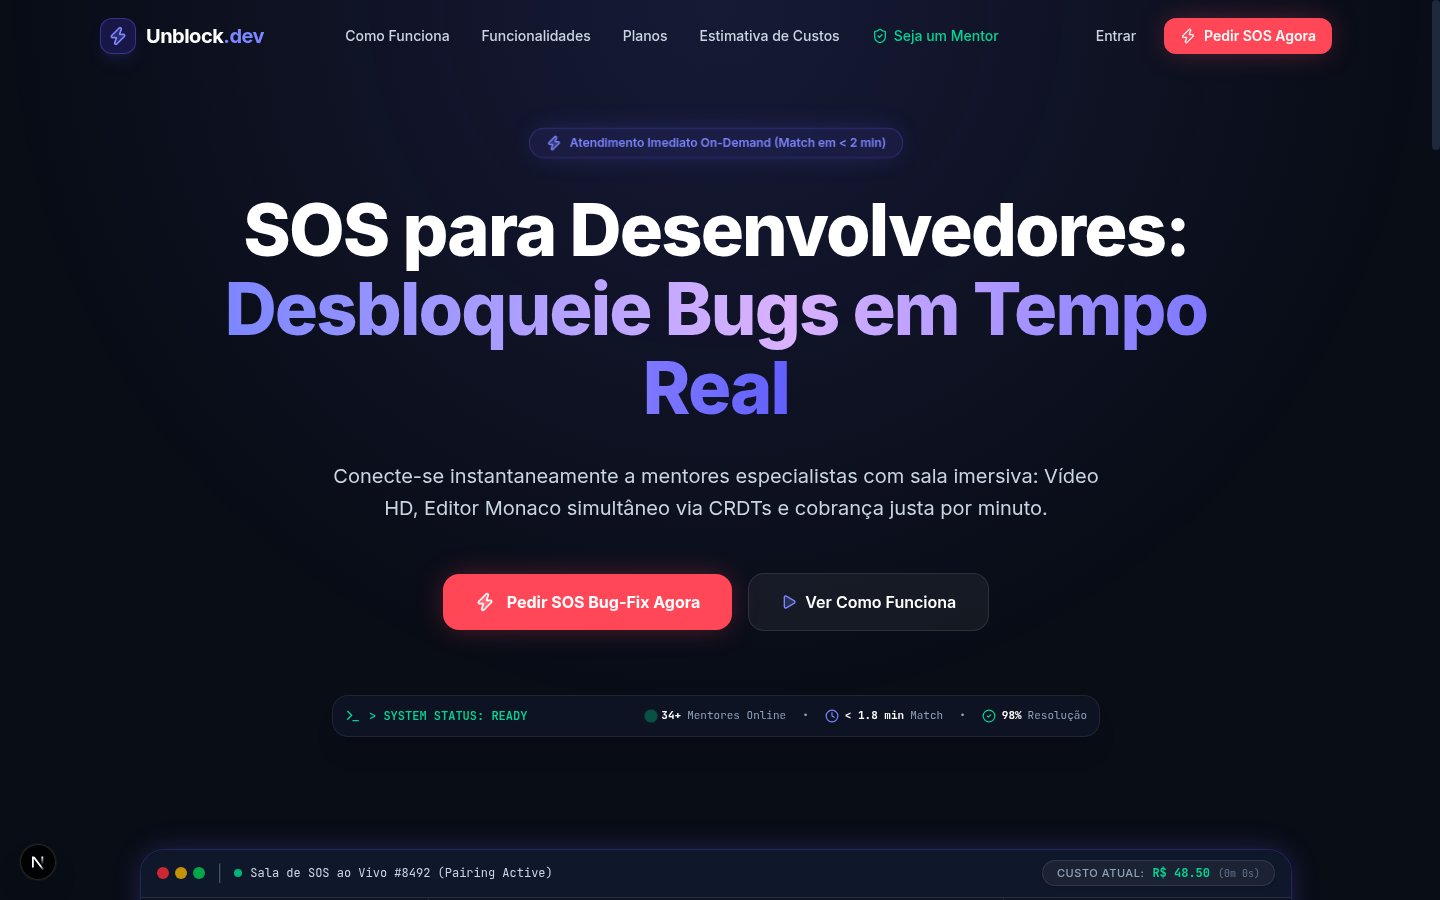
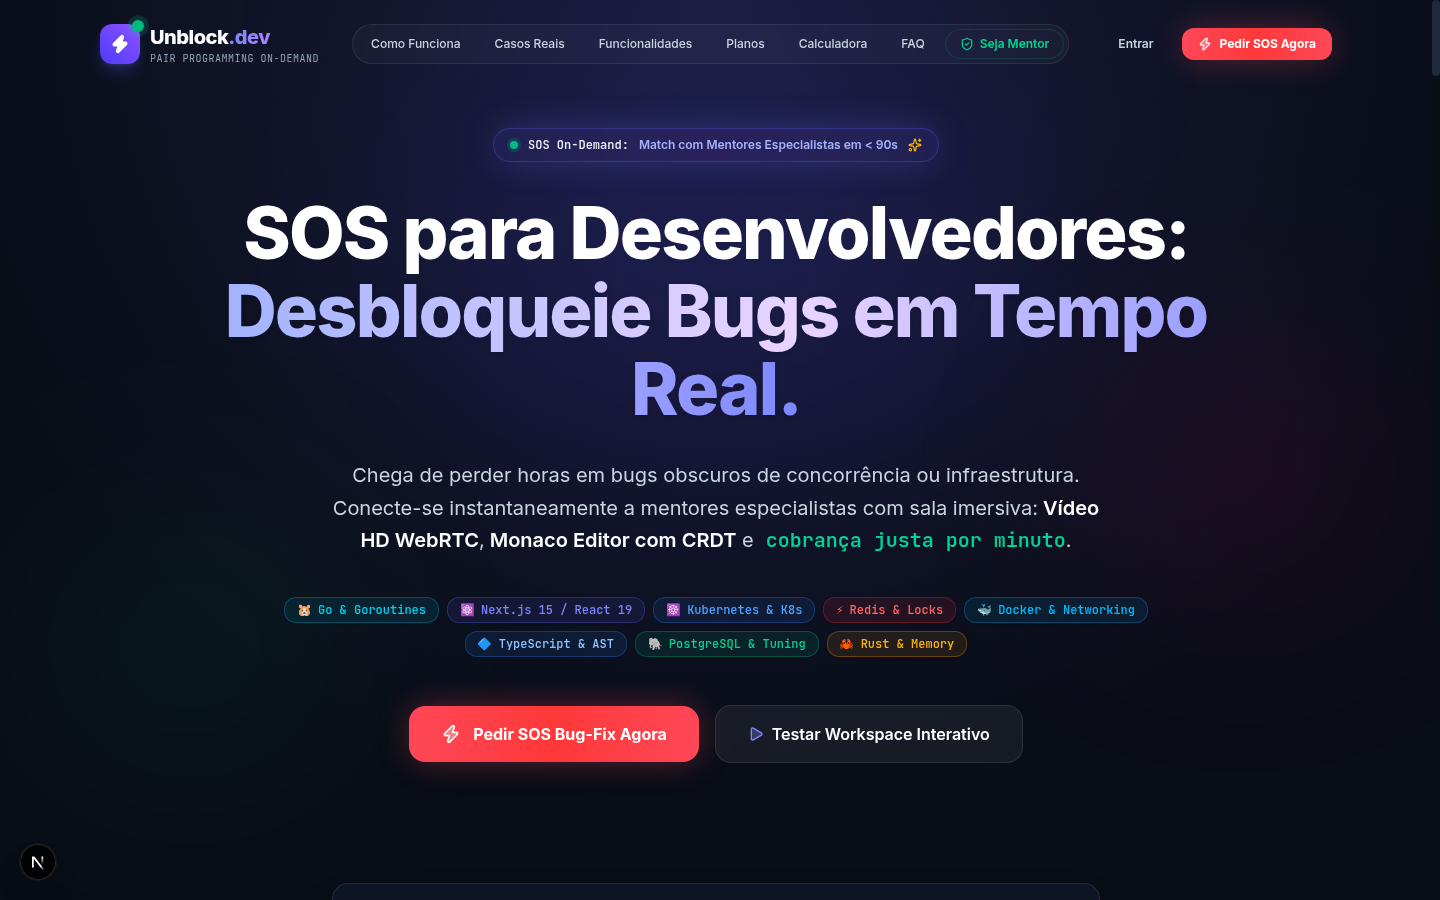
docs(screenshots): update landing page showcase screenshots with full modern redesign

diff --git a/frontend/src/components/landing/Hero.tsx b/frontend/src/components/landing/Hero.tsx
@@ -2,7 +2,7 @@
 
 import { useState, useEffect } from "react";
 import Link from "next/link";
-import { Zap, Play, Clock, Terminal, CheckCircle2, Sparkles, Activity, ShieldAlert, Users, Code2 } from "lucide-react";
+import { Zap, Play, Clock, Terminal, CheckCircle2, Sparkles, Activity } from "lucide-react";
 import { motion, AnimatePresence } from "framer-motion";
 
 const TECH_STACKS = [
@@ -44,13 +44,8 @@ export function Hero() {
       <div className="absolute top-1/2 left-10 w-[300px] h-[250px] bg-emerald-600/10 blur-[100px] rounded-full pointer-events-none -z-10" />
 
       <div className="max-w-7xl mx-auto px-6 space-y-8 text-center relative z-10">
-        {/* Animated Badge */}
-        <motion.div
-          initial={{ opacity: 0, y: -15 }}
-          animate={{ opacity: 1, y: 0 }}
-          transition={{ duration: 0.5, ease: "easeOut" }}
-          className="inline-flex items-center gap-2.5 px-4 py-2 rounded-full text-xs font-semibold bg-gradient-to-r from-indigo-500/10 via-purple-500/10 to-indigo-500/10 text-indigo-300 border border-indigo-500/30 glow-primary backdrop-blur-xl shadow-lg"
-        >
+        {/* Top Badge */}
+        <div className="inline-flex items-center gap-2.5 px-4 py-2 rounded-full text-xs font-semibold bg-gradient-to-r from-indigo-500/10 via-purple-500/10 to-indigo-500/10 text-indigo-300 border border-indigo-500/30 glow-primary backdrop-blur-xl shadow-lg transition duration-300 hover:scale-105">
           <span className="flex h-2 w-2 relative">
             <span className="animate-ping absolute inline-flex h-full w-full rounded-full bg-emerald-400 opacity-75" />
             <span className="relative inline-flex rounded-full h-2 w-2 bg-emerald-500" />
@@ -58,42 +53,27 @@ export function Hero() {
           <span className="font-mono text-white/90">SOS On-Demand:</span>
           <span>Match com Mentores Especialistas em &lt; 90s</span>
           <Sparkles className="w-3.5 h-3.5 text-amber-400" />
-        </motion.div>
+        </div>
 
         {/* Main Title with high impact typography */}
-        <motion.h1
-          initial={{ opacity: 0, y: 20 }}
-          animate={{ opacity: 1, y: 0 }}
-          transition={{ duration: 0.6, delay: 0.1, ease: "easeOut" }}
-          className="text-4xl sm:text-6xl lg:text-7xl font-extrabold tracking-tight text-white max-w-5xl mx-auto leading-[1.08]"
-        >
+        <h1 className="text-4xl sm:text-6xl lg:text-7xl font-extrabold tracking-tight text-white max-w-5xl mx-auto leading-[1.08]">
           SOS para Desenvolvedores: <br />
           <span className="text-transparent bg-clip-text bg-gradient-to-r from-indigo-300 via-purple-200 to-indigo-400 drop-shadow-sm">
             Desbloqueie Bugs em Tempo Real.
           </span>
-        </motion.h1>
+        </h1>
 
         {/* Subtitle */}
-        <motion.p
-          initial={{ opacity: 0, y: 20 }}
-          animate={{ opacity: 1, y: 0 }}
-          transition={{ duration: 0.6, delay: 0.2, ease: "easeOut" }}
-          className="text-slate-300 text-base sm:text-xl max-w-3xl mx-auto font-normal leading-relaxed"
-        >
+        <p className="text-slate-300 text-base sm:text-xl max-w-3xl mx-auto font-normal leading-relaxed">
           Chega de perder horas em bugs obscuros de concorrência ou infraestrutura.
           Conecte-se instantaneamente a mentores especialistas com sala imersiva:
           <strong className="text-white font-semibold"> Vídeo HD WebRTC</strong>,
           <strong className="text-white font-semibold"> Monaco Editor com CRDT</strong> e
           <strong className="text-emerald-400 font-semibold font-mono"> cobrança justa por minuto</strong>.
-        </motion.p>
+        </p>
 
         {/* Floating Stack Pills */}
-        <motion.div
-          initial={{ opacity: 0, scale: 0.95 }}
-          animate={{ opacity: 1, scale: 1 }}
-          transition={{ duration: 0.6, delay: 0.3 }}
-          className="flex flex-wrap items-center justify-center gap-2 max-w-4xl mx-auto pt-2"
-        >
+        <div className="flex flex-wrap items-center justify-center gap-2 max-w-4xl mx-auto pt-2">
           {TECH_STACKS.map((tech) => (
             <div
               key={tech.name}
@@ -103,15 +83,10 @@ export function Hero() {
               <span>{tech.name}</span>
             </div>
           ))}
-        </motion.div>
+        </div>
 
         {/* Primary CTAs with Shimmer Effect */}
-        <motion.div
-          initial={{ opacity: 0, y: 20 }}
-          animate={{ opacity: 1, y: 0 }}
-          transition={{ duration: 0.6, delay: 0.4 }}
-          className="flex flex-col sm:flex-row items-center justify-center gap-4 pt-4"
-        >
+        <div className="flex flex-col sm:flex-row items-center justify-center gap-4 pt-4">
           <Link
             href="/request"
             className="w-full sm:w-auto relative group overflow-hidden px-8 py-4 bg-gradient-to-r from-[#ff4757] via-[#ff3838] to-[#ff4757] text-white font-bold rounded-2xl glow-sos text-base transition duration-300 flex items-center justify-center gap-3 shadow-2xl hover:scale-105 active:scale-95"
@@ -128,23 +103,18 @@ export function Hero() {
             <Play className="w-4 h-4 text-indigo-400 fill-indigo-400/30" />
             <span>Testar Workspace Interativo</span>
           </Link>
-        </motion.div>
+        </div>
 
         {/* Live Resolved Activity Banner */}
-        <motion.div
-          initial={{ opacity: 0 }}
-          animate={{ opacity: 1 }}
-          transition={{ duration: 0.8, delay: 0.5 }}
-          className="pt-2 max-w-xl mx-auto"
-        >
+        <div className="pt-2 max-w-xl mx-auto">
           <div className="h-8 flex items-center justify-center">
             <AnimatePresence mode="wait">
               <motion.div
                 key={currentResolution.dev}
-                initial={{ opacity: 0, y: 8 }}
+                initial={{ opacity: 0, y: 6 }}
                 animate={{ opacity: 1, y: 0 }}
-                exit={{ opacity: 0, y: -8 }}
-                transition={{ duration: 0.3 }}
+                exit={{ opacity: 0, y: -6 }}
+                transition={{ duration: 0.25 }}
                 className="inline-flex items-center gap-2 px-3 py-1 rounded-lg bg-white/[0.03] border border-white/[0.08] text-[11px] font-mono text-slate-300"
               >
                 <Activity className="w-3.5 h-3.5 text-emerald-400" />
@@ -154,15 +124,10 @@ export function Hero() {
               </motion.div>
             </AnimatePresence>
           </div>
-        </motion.div>
+        </div>
 
         {/* Hacker CLI Telemetry Status Bar */}
-        <motion.div
-          initial={{ opacity: 0, y: 20 }}
-          animate={{ opacity: 1, y: 0 }}
-          transition={{ duration: 0.6, delay: 0.6 }}
-          className="pt-4 max-w-3xl mx-auto"
-        >
+        <div className="pt-4 max-w-3xl mx-auto">
           <div className="glass-panel p-3.5 rounded-2xl border border-white/10 flex flex-wrap items-center justify-between gap-4 font-mono text-xs text-slate-300 shadow-2xl">
             <div className="flex items-center gap-2 text-emerald-400 font-semibold">
               <Terminal className="w-4 h-4" />
@@ -185,7 +150,7 @@ export function Hero() {
               </span>
             </div>
           </div>
-        </motion.div>
+        </div>
       </div>
     </section>
   );
